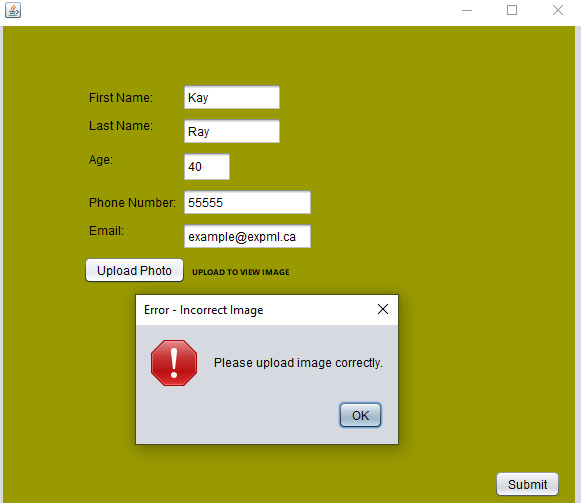
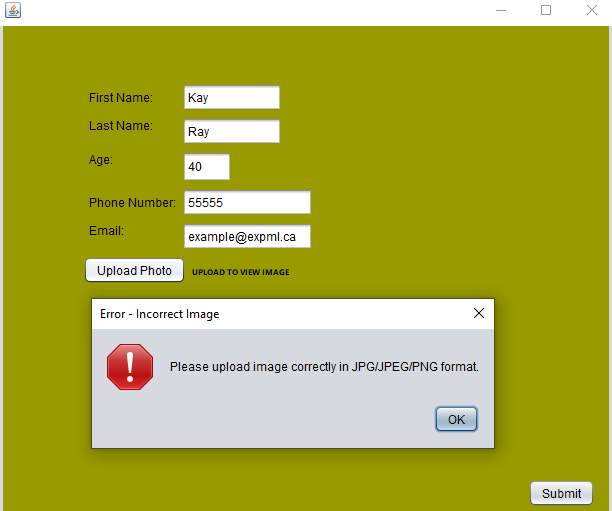
Java Swing Lab 2 Commit

diff --git a/mavenproject1/src/main/java/user_profile/UserProfile.java b/mavenproject1/src/main/java/user_profile/UserProfile.java
@@ -211,7 +211,7 @@ public class UserProfile extends javax.swing.JFrame {
                 }
             } catch (Exception ex) {
                 JOptionPane.showMessageDialog(this, "Please upload "
-                    + "image correctly.", "Error - Incorrect Image", JOptionPane.ERROR_MESSAGE);
+                    + "image correctly in JPG/JPEG/PNG format.", "Error - Incorrect Image", JOptionPane.ERROR_MESSAGE);
                         ex.printStackTrace();
             }
         }
